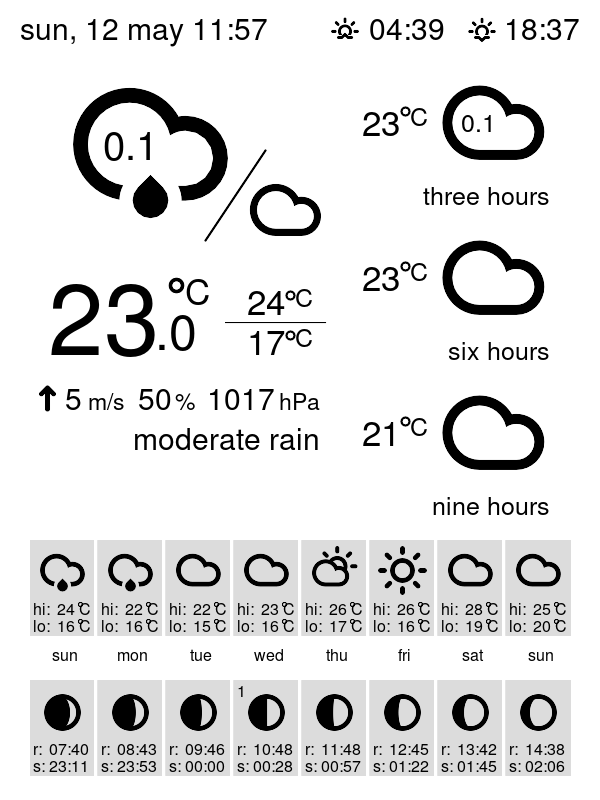
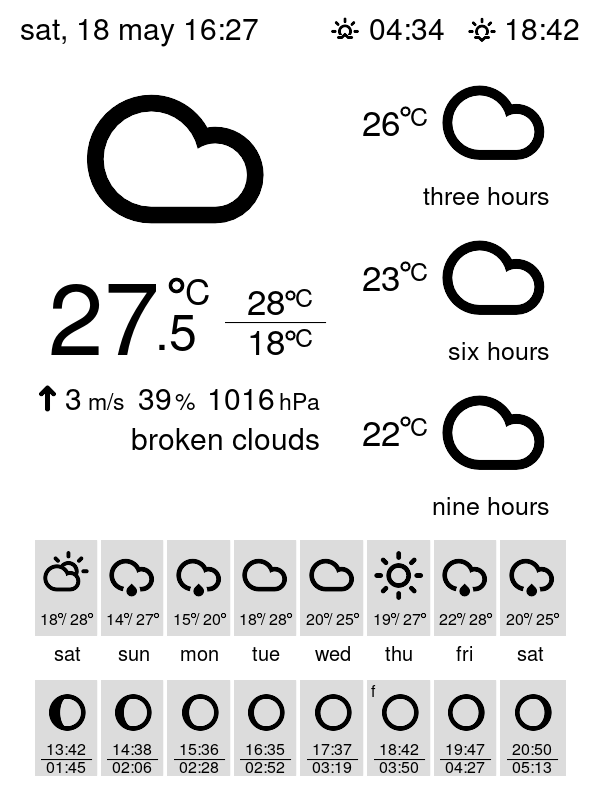
update

diff --git a/server/opt/lib/kindle-weather-station/Modules.py b/server/opt/lib/kindle-weather-station/Modules.py
@@ -513,8 +513,8 @@ class DailyWeatherPane:
             a += SVGtools.text("end", "35px", (x + 200), (y + 75), w).svg()
             a += add_temp_unit(x=tMin, y=(y + 75), text=int(tLow), unit=p.units['temp'])
             a += add_temp_unit(x=int(tMax - s_padding(tHigh)), y=(y + 75), text=int(tHigh), unit=p.units['temp'])
-            a += SVGtools.line(int(tMin + 40), int(tMax - 65), (y + 75 - 10), (y + 75 - 10), \
-                 "fill:none;stroke:black;stroke-linecap:round;stroke-width:10px;").svg()
+            style = "fill:none;stroke:black;stroke-linecap:round;stroke-width:10px;"
+            a += SVGtools.line(int(tMin + 40), int(tMax - 65), (y + 75 - 10), (y + 75 - 10), style).svg()
             y += pitch
         return a
 
@@ -1005,62 +1005,53 @@ class GraphPane:
         x, y = self.x, self.y
         canvas = p.config['graph_canvas']
         obj = self.obj
+        basis, title = obj["basis"], obj["title"]
         w, h, bgcolor, axis = canvas["width"], canvas["height"], canvas["bgcolor"], canvas["axis"]
-        x_sp = (600 - w) / 2
-        axis_color, grid, grid_color = canvas["axis_color"], canvas["grid"], canvas["grid_color"]
-        title = obj["title"]
-        end, step, basis = obj["end"], obj["step"], obj["basis"]
-        tz = timezone(p.config['timezone'])
+        kwargs = {  'w': w, 'h': h, 'bgcolor': bgcolor, 'axis': axis,
+                    'axis_color': canvas["axis_color"], 'grid': canvas["grid"], 'grid_color': canvas["grid_color"],
+                    'title': obj["title"], 'end': obj["end"], 'step': obj["step"], 'basis': obj["basis"], 'stroke': obj["stroke"],
+                    'stroke_color': obj["stroke-color"], 'fill': obj["fill"], 'stroke_linecap': obj["stroke-linecap"],
+                    'tz': timezone(p.config['timezone']), 'sp_x': (600 - w) / 2}
+        # Start
         a = '<g font-family="{}">\n'.format(p.config['font'])   
         # Canvas
         style = "fill:{};stroke:{};stroke-width:{}px;".format(bgcolor, bgcolor, (0))
-        a += SVGtools.rect(x=(x - 10), y=(y - h + 10), width=(w + 10), height=(h - 45), style=style).svg()
-        style = "fill:none;stroke:{};stroke-width:{}px;".format(axis_color, axis)
-
-        def daily_weather(p, x, y, canvas, obj):
-            w, h, bgcolor, axis = canvas["width"], canvas["height"], canvas["bgcolor"], canvas["axis"]
-            axis_color, grid_y, grid_y_color = canvas["axis_color"], canvas["grid"], canvas["grid_color"]
-            stroke, stroke_color, fill, stroke_linecap = obj["stroke"], obj["stroke-color"], obj["fill"], obj["stroke-linecap"]
-            title = obj["title"]
-            end, step, basis = obj["end"], obj["step"], obj["basis"]
+        #a += SVGtools.rect(x=(x - 10), y=(y - h + 10), width=(w + 10), height=(h - 45), style=style).svg()
+        a += SVGtools.rect(x=(x-5), y=(y - h + 10), width=(w), height=(h - 45), style=style).svg()
+        def daily_weather(p, x, y, w, h, bgcolor, axis, axis_color, grid, grid_color, stroke, stroke_color, fill, stroke_linecap, \
+                            title, end, step, basis, tz, sp_x, **kwargs):
             end = 6 if p.config['api'] == 'TomorrowIo' else end
-            box_size_x = (w - (end - 1) * grid_y) / (end - 1)
+            icon_sp = 20 if p.config['api'] == 'TomorrowIo' else 0
+            box_size_x = (w - (end -1) * grid) / end
+            half = int(box_size_x * 0.5)
             i18n = read_i18n(p, i18nfile)
-            i = str()
-            s = str()
+            i, s = str(), str()
             for n in range(0, end, step):
                 weather = p.DailyForecast(n)
                 jour = str.lower(datetime.fromtimestamp(weather['dt'], tz).strftime('%a'))
                 #jour = i18n["abbreviated_weekday"][jour] if not i18n == dict() else jour
-                _x = x + x_sp + int(w / end) * n
-                _y = y - 45          
-                i += SVGtools.transform("(1.0,0,0,1.0,{},{})".format((_x - 53), (_y - 105)), addIcon(weather['main'])).svg()
-                s += SVGtools.text("start", "16px", (_x - 32), (_y - 10), "hi:").svg()
-                s += SVGtools.text("end", "16px", (_x + 26), (_y - 10), "{} {}".format(round(weather['temp_max']), p.units['temp'])).svg()
-                s += SVGtools.circle((_x + 15), (_y - 21), 2, "black", 1, "none").svg()
-                s += SVGtools.text("start", "16px", (_x - 32), (_y + 7), "lo:").svg()
-                s += SVGtools.text("end", "16px", (_x + 26), (_y + 7), "{} {}".format(round(weather['temp_min']), p.units['temp'])).svg()
-                s += SVGtools.circle((_x + 15), (_y - 4), 2, "black", 1, "none").svg()
+                _x = int(sp_x + (box_size_x + grid) * n)
+                _y = y - 45
+                i += SVGtools.transform("(1.0,0,0,1.0,{},{})".format((_x + 12 - box_size_x / 2 + icon_sp), (_y - 100)), addIcon(weather['main'])).svg()
+                s += SVGtools.text("end", "16px", (_x + half), (_y ), "/").svg()
+                s += SVGtools.text("end", "16px", (_x + half - 8), (_y ), "{}".format(round(weather['temp_min']))).svg()
+                s += SVGtools.circle((_x + half - 6), (_y - 10), 2, "black", 1, "none").svg()
+                s += SVGtools.text("end", "16px", (_x + half + 22), (_y ), "{}".format(round(weather['temp_max']))).svg()
+                s += SVGtools.circle((_x + half + 24), (_y - 10), 2, "black", 1, "none").svg()
                 if n < (end - 1):
-                    style = "fill:none;stroke:{};stroke-linecap:{};stroke-width:{}px;".format(grid_y_color, stroke_linecap, grid_y)
-                    i += SVGtools.line((_x + 30), (_x + 30), (_y - h + 55), (_y + 10), style).svg()
+                    style = "fill:none;stroke:{};stroke-linecap:{};stroke-width:{}px;".format(grid_color, stroke_linecap, grid)
+                    i += SVGtools.line((_x + box_size_x), (_x + box_size_x), (_y - h + 55), (_y + 10), style).svg()
             return s,i
 
-        def moon_phase(p, x, y, canvas, obj):
-            from hijridate import Hijri, Gregorian
-            w, h, bgcolor, axis = canvas["width"], canvas["height"], canvas["bgcolor"], canvas["axis"]
-            sp_x = (600 - w) / 2
-            axis_color, grid_y, grid_y_color = canvas["axis_color"], canvas["grid"], canvas["grid_color"]
-            stroke, stroke_color, fill, stroke_linecap = obj["stroke"], obj["stroke-color"], obj["fill"], obj["stroke-linecap"]
-            title = obj["title"]
-            end, step, basis = obj["end"], obj["step"], obj["basis"]
+        def moon_phase(p, x, y, w, h, bgcolor, axis, axis_color, grid, grid_color, stroke, stroke_color, fill, stroke_linecap, \
+                            title, end, step, basis, tz, sp_x, **kwargs):
+            from hijridate import Hijri, Gregorian   
             end = 6 if p.config['api'] == 'TomorrowIo' else end
-            box_size_x = (w - (end -1) * grid_y) / end
+            box_size_x = (w - (end -1) * grid) / end
+            half = int(box_size_x * 0.5)
             i18n = read_i18n(p, i18nfile)
-            tz = timezone(p.config['timezone'])
             ramadhan = p.config['ramadhan']
-            i = str()
-            s = str()           
+            i, s = str(),str()          
             for n in range(0, end, step):
                 weather = p.DailyForecast(n)
                 jour = str.lower(datetime.fromtimestamp(weather['dt'], tz).strftime('%a'))
@@ -1069,12 +1060,12 @@ class GraphPane:
                 mon = int(datetime.fromtimestamp(weather['dt'], tz).strftime('%-m'))
                 yrs = int(datetime.fromtimestamp(weather['dt'], tz).strftime('%Y'))
                 lat = float(p.config['lat'])
-                _x = int(sp_x + (box_size_x + grid_y) * n) 
+                _x = int(sp_x + (box_size_x + grid) * n) 
                 _y = y - 45
                 r = 18 if end == 6 else 14
                 # grid
                 if n < (end - 1):
-                    style = "fill:none;stroke:{};stroke-linecap:{};stroke-width:{}px;".format(grid_y_color, stroke_linecap, grid_y)
+                    style = "fill:none;stroke:{};stroke-linecap:{};stroke-width:{}px;".format(grid_color, stroke_linecap, grid)
                     i += SVGtools.line((_x + box_size_x), (_x + box_size_x), (_y - h + 55), (_y + 10), style).svg()                 
                 # icon
                 style = "fill:{};stroke:{};stroke-width:{}px;".format(fill, stroke_color, 1)
@@ -1213,8 +1204,10 @@ class GraphPane:
                 #t_moonrise = str(daily[20])  # test
                 moonrise = "00:00" if weather['moonrise'] == 0 else str(datetime.fromtimestamp(weather['moonrise'], tz).strftime("%H:%M"))
                 moonset = "00:00" if weather['moonset'] == 0 else str(datetime.fromtimestamp(weather['moonset'], tz).strftime("%H:%M"))
-                s += SVGtools.text("middle", "16px", (_x + int(box_size_x * 0.5)), (_y - 10), "r: {}".format(moonrise)).svg()
-                s += SVGtools.text("middle", "16px", (_x + int(box_size_x * 0.5)), (_y + 7), "s: {}".format(moonset)).svg()
+                s += SVGtools.text("middle", "16px", (_x + int(box_size_x * 0.5)), (_y - 10), moonrise).svg()
+                s += SVGtools.text("middle", "16px", (_x + int(box_size_x * 0.5)), (_y + 8), moonset).svg()
+                style = "fill:none;stroke:black;stroke-width:1px;"
+                i += SVGtools.line((_x + half - 25), (_x  + half + 25), (_y - 6), (_y - 6), style).svg()
                 # moon phase and ramadhan 
                 s += SVGtools.text("start", "16px", (_x + 3), (_y - 68), "{}".format(ps)).svg()
                 s += SVGtools.text("end", "16px", (_x + box_size_x - 3), (_y - 68), "{}".format(ram)).svg()
@@ -1223,10 +1216,10 @@ class GraphPane:
         # Graph
         #points = str()
         if basis == "day" and title == "weather":
-            s,i = daily_weather(p, x, y, canvas, obj)
+            s,i = daily_weather(p, x, y, **kwargs)
             a += s + '</g>' + i
         elif basis == "day" and title == "moon phase":
-            s,i = moon_phase(p, x, y, canvas, obj)
+            s,i = moon_phase(p, x, y, **kwargs)
             a += s + '</g>' + i         
         return a
 
@@ -1320,7 +1313,3 @@ def addIcon(s):
     else:
         return None
 
-#    except Exception as e:
-#        shutil.copyfile(error_image, flatten_pngfile)
-#        print(e)
-#        exit(1)
